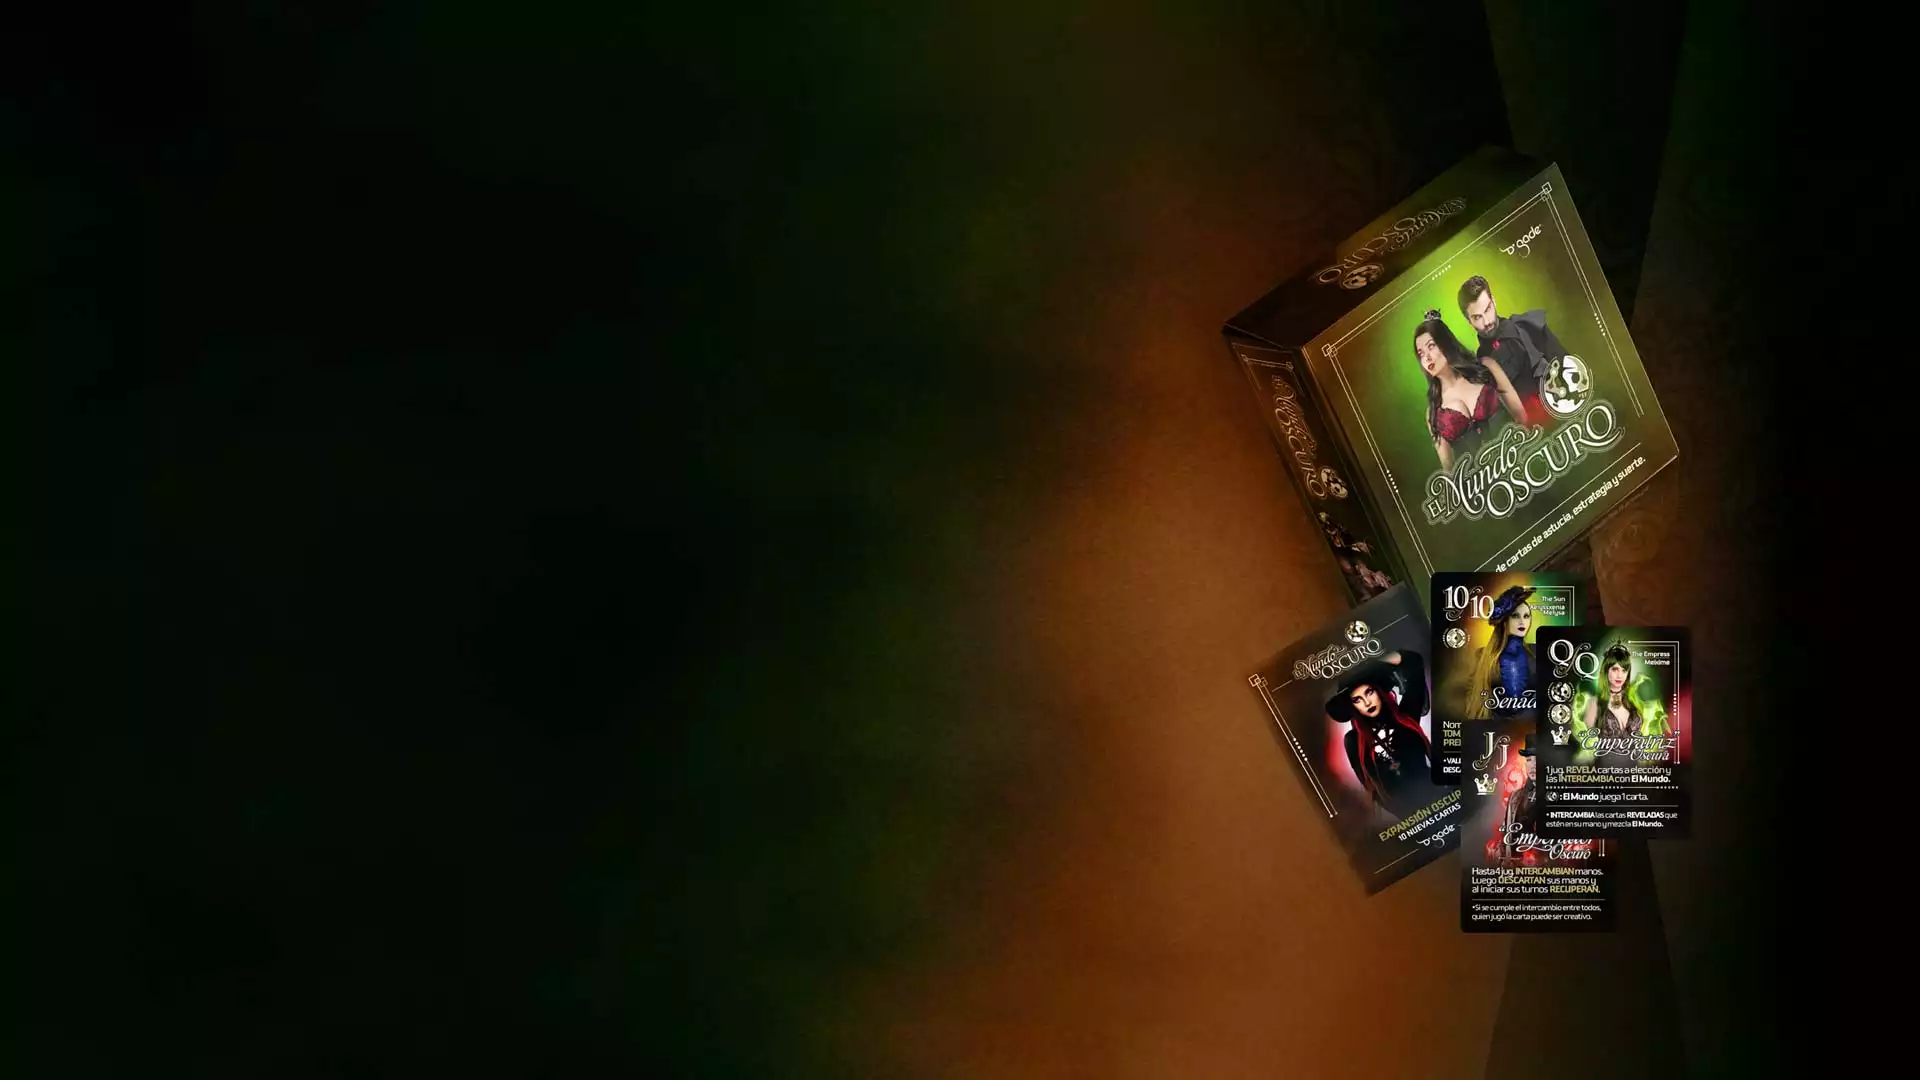
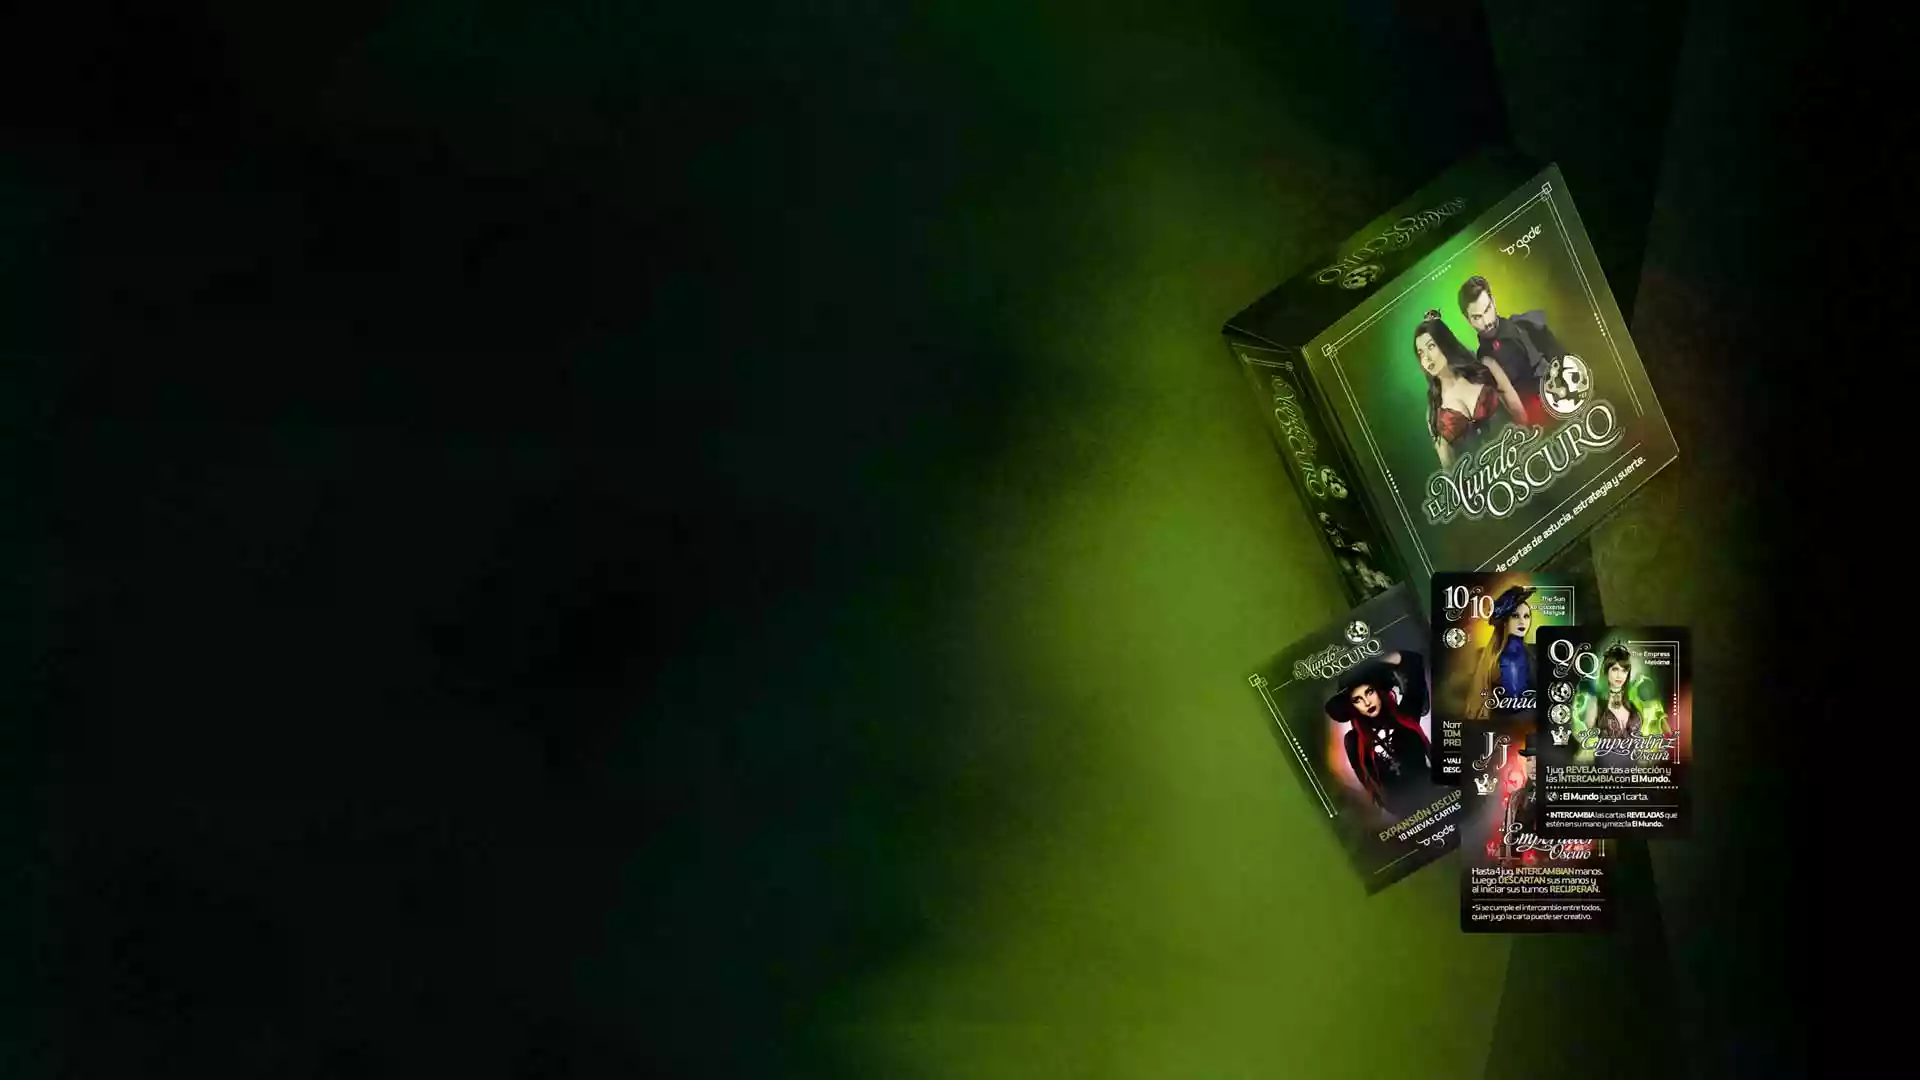
puse patron en el slider para que no se vea tanto lo pixelado

Changed region(s): [[0.4375, 0.1528, 0.9062, 1.0], [0.5, 0.0, 0.5938, 0.1528], [0.5, 0.2444, 0.5312, 0.275]]

diff --git a/scss/_slider.scss b/scss/_slider.scss
@@ -9,7 +9,7 @@
 
 .slidermain {
     
-    background-image: url(../img/banner.webp) ;
+    background-image: url(../img/banner.webp);
     background-size: cover;
     background-repeat: no-repeat;
     background-position: center;
@@ -29,6 +29,15 @@
         line-height: 0.75;
         text-shadow: 2px 2px 4px #9b9b9b, 0 0 10px rgb(218, 194, 116), 0 0 50px black, 1px 1px 4px black;
         margin: 50px 0px 50px 0px;
+        z-index: 999;
+        }
+
+        h2{
+            z-index: 999;
+        }
+
+        img{
+            z-index: 999;
         }
 
         h6 {
@@ -37,9 +46,23 @@
             font-weight: 100;
             text-align: left;
             @extend .color-sec;
+            z-index: 999;
         }
     
 }
+
+.slidermain::after {
+    position: absolute;
+    top: 0;
+    right: 0;
+    bottom: 0;
+    left: 0;
+    background-color: rgba(0, 0, 0, 0.5);
+    /*/ ⭐ To encode your own SVG as a data URI, use jakob-e’s super helpful CodePen: “Encode SVG SCSS” https://codepen.io/jakob-e/pen/doMoML */
+    background-image: url('../img/pattern/pattern4.png');
+    content: '';
+    opacity: 0.3;
+  }
 
 .sliderlinea {
     width: 90%; 

diff --git a/css/main.css b/css/main.css
@@ -185,11 +185,29 @@ nav {
     text-align: left;
     line-height: 0.75;
     text-shadow: 2px 2px 4px #9b9b9b, 0 0 10px #dac274, 0 0 50px black, 1px 1px 4px black;
-    margin: 50px 0px 50px 0px; }
+    margin: 50px 0px 50px 0px;
+    z-index: 999; }
+  .slidermain h2 {
+    z-index: 999; }
+  .slidermain img {
+    z-index: 999; }
   .slidermain h6 {
     font-size: 25px;
     font-weight: 100;
-    text-align: left; }
+    text-align: left;
+    z-index: 999; }
+
+.slidermain::after {
+  position: absolute;
+  top: 0;
+  right: 0;
+  bottom: 0;
+  left: 0;
+  background-color: rgba(0, 0, 0, 0.5);
+  /*/ ⭐ To encode your own SVG as a data URI, use jakob-e’s super helpful CodePen: “Encode SVG SCSS” https://codepen.io/jakob-e/pen/doMoML */
+  background-image: url("../img/pattern/pattern4.png");
+  content: '';
+  opacity: 0.3; }
 
 .sliderlinea {
   width: 90%;

diff --git a/paginas/cartas.html b/paginas/cartas.html
@@ -80,11 +80,11 @@
         
       </nav>
 
-    <header class="slidermain d-flex flex-column align-content-center" style="background-image: url(../img/banner-contacto.webp);" >
+    <header class="slidermain d-flex flex-column align-content-center" style="background-image: url(../img/bannerCARTAS.webp);" >
             <h1 class="animate__animated animate__fadeInLeft">Cartas</h1>
             <img alt="linea divisoria" class="sliderlinea animate__animated animate__flipInY" src="../img/divsim.svg" alt=""  style="margin-bottom: 30px;">
             
-            <h2 class="animate__animated animate__fadeInUp">Un juego de cartas de <br>Astucia, Estrategia y Suerte</h2>
+            <h2 class="animate__animated animate__fadeInUp">Lore y habilidades<br>de cada carta.</h2>
     </header>
 
 
